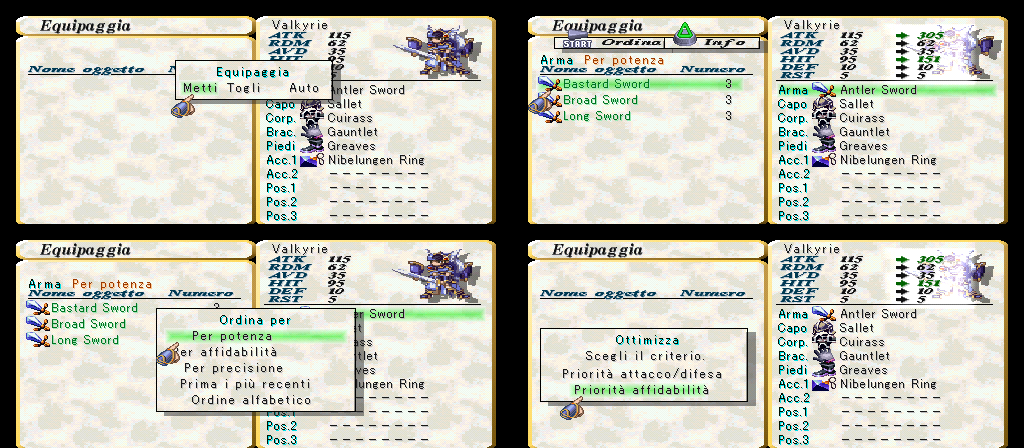
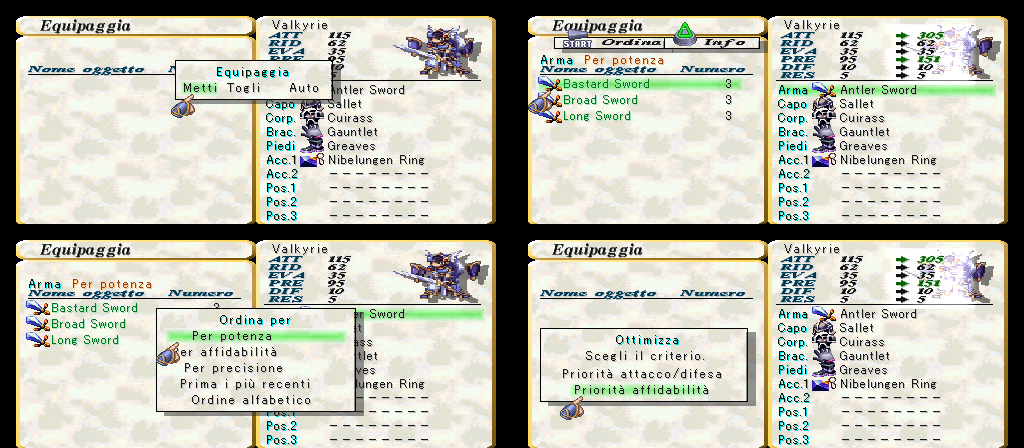
Translate the Status screen; give the small italic font accents
- edits_it/menu_2181.txt: the Status screen's 55 interface strings. The stat
  abbreviations become Italian (FOR INT AGI DES, ATT RID DIF EVA PRE RES),
  here and on Equipment/Party, since Status explains each one.
  "Valore sigillo" became "Sigillo" (it ran into its value).
- The Status labels use a small italic font (table in file 2174, sheet in
  package 2173) that had no accented letters: "(Agilita)" lost its a-grave.
  The build now draws the menus' accented letters into the sheet's free strip
  and points the table entries at them (vp_accents.small_italic_patch).
- Checked on screen (italian_status.png, italian_equipment.png); docs updated.

diff --git a/vp_accents.py b/vp_accents.py
@@ -197,3 +197,95 @@ def italic_patch(tim, table, codes):
             dy.to_bytes(2, 'little', signed=True) + bytes([adv, u, v, 0])
         u += w; line_h = max(line_h, h)
     return bytes(tim), bytes(table), skipped
+
+
+# ---------------------------------------------------------------- the small italic font
+#
+# The camp menu's screens draw some labels (the Status screen's stat names and their explanations,
+# the "Nome oggetto" column headings) with a small bold italic font in the same table format as the
+# title font: the table, 96 entries of 10 bytes, is in the camp menu program (file 2174, one SLZ
+# block loaded at 0x8002F824) at SMALL_TABLE_OFFSET; the glyphs are on a 256 x 256 4-bit sheet
+# shared with the camp menu's icons and buttons, the TIM in part 0 of package 2173, which the game
+# puts at VRAM (832, 256). Lower-case letters are 5 rows tall from line row 2, capitals 7 rows from
+# row 0; colour 1 is the body, 4, 6 and 8 its edge, b and d the shadow. The sheet's only free room is
+# a strip of SMALL_FREE (u, v, width, height), empty with a 3-pixel margin and never drawn over while
+# the camp menu runs; an accented letter is drawn there and its slot's table entry pointed at it.
+
+SMALL_SHEET = (2173, 0)                 # (package, part) of the sheet's TIM
+SMALL_PROGRAM = 2174
+SMALL_TABLE_OFFSET = 0x1E0D0
+SMALL_FREE = (51, 33, 108, 12)
+
+_SMALL_ACCENT = {                       # 2-row accents, '.' = transparent; centre column 1
+    GRAVE: ['61.', '.1b'],
+    ACUTE: ['.16', '1b.'],
+    CIRC: ['.1.', '1b1'],
+    DIAER: ['...', '1.1'],
+}
+
+
+def _small_tim(tim):
+    """(offset of the pixel rows, bytes per row) in the sheet's TIM (flags 8: with a CLUT)."""
+    clen = int.from_bytes(tim[8:12], 'little')
+    off = 8 + clen
+    w = int.from_bytes(tim[off + 8:off + 10], 'little')
+    return off + 12, w * 2
+
+
+def _small_glyph(tim, table, ch):
+    """(rows of colour indices, dx, dy, advance) of the accented letter ch for the small font, from
+    its base letter's glyph, or None."""
+    base, kind = LETTERS[ch]
+    e = italic_entry(table, ord(base))
+    if not e['w']:
+        return None
+    po, pitch = _small_tim(tim)
+    px = lambda x, y: (tim[po + y * pitch + x // 2] >> 4) if x & 1 else (tim[po + y * pitch + x // 2] & 15)
+    rows = [[px(e['u'] + x, e['v'] + y) for x in range(e['w'])] for y in range(e['h'])]
+    lower = base.islower()
+    body_top = 2 if lower else 0
+    keep = [(e['dy'] + r, row) for r, row in enumerate(rows) if e['dy'] + r >= body_top]   # drops the i's dot
+    first = next((row for _, row in keep if any(row)), None)
+    if first is None:
+        return None
+    cols = [x for x, c in enumerate(first) if c]
+    cx = (min(cols) + max(cols)) // 2 + 1           # the slant puts the top to the right
+    top = body_top - 2 if lower else body_top - 3   # capitals: a gap row between accent and letter
+    grid = {}
+    for r, row in enumerate(_SMALL_ACCENT[kind]):
+        for x, c in enumerate(row):
+            if c != '.':
+                grid[(top + r, cx - 1 + x)] = int(c, 16)
+    for lr, row in keep:
+        for x, c in enumerate(row):
+            if c:
+                grid[(lr, x)] = c
+    w = max(e['w'], max(x for _, x in grid) + 1)
+    w += -w % 4
+    bottom = max(lr for lr, _ in grid)
+    return [[grid.get((lr, x), 0) for x in range(w)] for lr in range(top, bottom + 1)], e['dx'], top, e['adv']
+
+
+def small_italic_patch(tim, table, codes):
+    """Draw the accented letters codes ({character: slot ASCII}) into the free strip of the small
+    italic font's sheet and point their slots' entries at them. Returns (tim, table, skipped)."""
+    tim = bytearray(tim); table = bytearray(table); skipped = []
+    po, pitch = _small_tim(tim)
+    fu, fv, fw, fh = SMALL_FREE
+    u = fu
+    for ch, code in sorted(codes.items(), key=lambda kv: kv[1]):
+        g = _small_glyph(tim, table, ch) if ch in LETTERS else None
+        if g is None:
+            skipped.append(ch); continue
+        rows, dx, dy, adv = g
+        h, w = len(rows), len(rows[0])
+        if u + w > fu + fw or h > fh:
+            skipped.append(ch); continue
+        for y, row in enumerate(rows):
+            for x, c in enumerate(row):
+                i = po + (fv + y) * pitch + (u + x) // 2
+                tim[i] = (tim[i] & 0x0F) | (c << 4) if (u + x) & 1 else (tim[i] & 0xF0) | c
+        table[(code - 0x20) * 10:(code - 0x20) * 10 + 10] = bytes([w, h]) + dx.to_bytes(2, 'little', signed=True) + \
+            dy.to_bytes(2, 'little', signed=True) + bytes([adv, u, fv, 0])
+        u += w
+    return bytes(tim), bytes(table), skipped

diff --git a/vp_menu_text.py b/vp_menu_text.py
@@ -409,9 +409,10 @@ class MenuText:
         return self.pkg.build()
 
 
-def _patch_italic(ed, pkg, orig_parts, word, codes):
+def _patch_italic(ed, pkg, orig_parts, word, codes, small_table=None):
     """Draw the accented letters codes ({character: slot ASCII}) into the italic title font copy
-    in package pkg (directory word word)."""
+    in package pkg (directory word word), and, given the small italic font's table (package 2173
+    holds that font's sheet too), into the small font's sheet."""
     acc = _load('vp_accents')
     si, ti = acc.ITALIC_COPIES[word]
     sub = [list(x) for x in ed.read_container(orig_parts[si])]
@@ -420,6 +421,13 @@ def _patch_italic(ed, pkg, orig_parts, word, codes):
     sub[0] = [sub[0][0], ed.vslz.compress(tim, sub[0][0]), len(tim)]
     pkg.parts[si][1] = ed.write_container(sub)
     pkg.parts[ti][1] = table
+    if small_table is not None:
+        pi = acc.SMALL_SHEET[1]
+        sub = [list(x) for x in ed.read_container(orig_parts[pi])]
+        tim = ed.unpack(*sub[0])
+        tim, _, _ = acc.small_italic_patch(tim, small_table, codes)
+        sub[0] = [sub[0][0], ed.vslz.compress(tim, sub[0][0]), len(tim)]
+        pkg.parts[pi][1] = ed.write_container(sub)
 
 
 class ItalicFont:
@@ -433,6 +441,12 @@ class ItalicFont:
         self.orig_parts = [bytes(d) for _, d in self.pkg.parts]
         self.codes = codes
         self.label = f'italic title font {word}'
+        acc = _load('vp_accents')
+        self.small_table = None         # the small italic font's table, when this package has its sheet
+        if word == acc.SMALL_SHEET[0]:
+            prog = self.ed.vtitle.TitleFile(self.ed, arc, dirw, acc.SMALL_PROGRAM).data
+            self.small_table = prog[acc.SMALL_TABLE_OFFSET:acc.SMALL_TABLE_OFFSET + 960]
+            self.label = f'italic fonts {word}'
         self.first, self.end = self.pkg.first, self.pkg.end
 
     @property
@@ -440,7 +454,7 @@ class ItalicFont:
         return self.pkg.used
 
     def repack(self, recompress_all=False):
-        _patch_italic(self.ed, self.pkg, self.orig_parts, self.word, self.codes)
+        _patch_italic(self.ed, self.pkg, self.orig_parts, self.word, self.codes, self.small_table)
         if recompress_all:
             for i, (kind, data) in enumerate(self.pkg.parts):
                 if data[:3] == b'SLZ':

diff --git a/vp_camp_tabs.py b/vp_camp_tabs.py
@@ -1,4 +1,6 @@
 """The camp menu's tabs: the Topic and Sort boxes above the item lists, which can be made wider.
+The same program holds the small italic font's table, which `build_file` also gives the menus'
+accented letters (vp_accents.small_italic_patch).
 
 The camp menu program (file 2174, one SLZ block loaded at 0x8002F824) draws parts of its screens
 from lists of 20-byte layout records, each list ending in a record whose first byte is 0xFF:
@@ -103,14 +105,26 @@ def apply(data, widths, origin=''):
     return bytes(data), changed
 
 
-def build_file(ed, arc, dirw, widths, log=print):
-    """(file, packed bytes, room), or None when nothing changes. `ed` is vp_text_editor's namespace."""
+def build_file(ed, arc, dirw, widths, log=print, accents=None):
+    """(file, packed bytes, room), or None when nothing changes. `ed` is vp_text_editor's namespace.
+    accents: {accented character: slot ASCII}, the letters the menus use, given table entries in the
+    small italic font (its glyphs are drawn into its sheet with the italic title font's)."""
     f = ed.vtitle.TitleFile(ed, arc, dirw, WORD); f.label = f'camp menu file {WORD}'
     data, changed = apply(f.data, widths)
-    if not changed:
-        return None
     for mid, old, w in changed:
         log(f'  tab {mid:#x}: box {old} -> {w} px wide')
+    if accents:
+        acc = ed.vmenu._load('vp_accents')
+        pkg, part = acc.SMALL_SHEET
+        sheet = ed.Package(arc, dirw, pkg).parts[part][1]
+        tim = ed.unpack(*ed.read_container(sheet)[0])
+        o = acc.SMALL_TABLE_OFFSET
+        _, table, skipped = acc.small_italic_patch(tim, data[o:o + 960], accents)
+        data = data[:o] + table + data[o + 960:]
+        log(f'  small italic font: {"".join(c for c in sorted(accents) if c not in skipped)} drawn into package {pkg}'
+            + (f'; no room or no base letter for {"".join(skipped)}' if skipped else ''))
+    if data == f.data:
+        return None
     packed, room = f.pack(data)
     if len(packed) > room:
         raise ValueError(f'{f.label}: needs {len(packed)} bytes, its sectors hold {room}')

diff --git a/vp_text_editor.py b/vp_text_editor.py
@@ -862,7 +862,7 @@ def build_tables(arc, dirw, table_edits, link, patches, log=print):
                              f'({len(pkg) - room} too many)')
         log(f'  {u.label}: package {u.used} -> {len(pkg)} bytes of {room}')
         _patch_sectors(arc, u.first, u.end, pkg, room, patches)
-    return len(changed)
+    return len(changed), (dict(t6.italic) if t6 is not None and t6.registry else {})
 
 
 def build_image(disc, arc, dirw, names, edits, output, fit=False, log=print, table_edits=(), link=True,
@@ -905,7 +905,7 @@ def build_image(disc, arc, dirw, names, edits, output, fit=False, log=print, tab
         log(f'system messages: records {", ".join(map(str, sorted(system)))} written into every scene '
             f'({sys_stats["scenes"]} with no other edits'
             + (f'; the least room left is {tightest[0]} bytes, scene {tightest[1]:#x}' if tightest else '') + ')')
-    menus = build_tables(arc, dirw, table_edits, link, patches, log)
+    menus, accents = build_tables(arc, dirw, table_edits, link, patches, log)
     if worldmap:
         done = vwm.build(types.SimpleNamespace(**globals()), arc, dirw, names, worldmap, db_get, log)
         if done:
@@ -915,9 +915,9 @@ def build_image(disc, arc, dirw, names, edits, output, fit=False, log=print, tab
         log('title menu (files 7 and 1):')
         for f, packed, room in vtitle.build_files(types.SimpleNamespace(**globals()), arc, dirw, title, log):
             _patch_sectors(arc, f.first, f.end, packed, room, patches)
-    if camp_tabs:
-        log(f'camp menu tabs (file {vtabs.WORD}):')
-        done = vtabs.build_file(types.SimpleNamespace(**globals()), arc, dirw, camp_tabs, log)
+    if camp_tabs or accents:
+        log(f'camp menu program (file {vtabs.WORD}):')
+        done = vtabs.build_file(types.SimpleNamespace(**globals()), arc, dirw, camp_tabs or {}, log, accents)
         if done:
             f, packed, room = done
             _patch_sectors(arc, f.first, f.end, packed, room, patches)

diff --git a/docs/PROGRESS.md b/docs/PROGRESS.md
@@ -1,17 +1,17 @@
 # Translation progress
 
-Generated by `vp_progress.py` on 2026-11-16 from 46 edit files. Don't edit this file by hand: run the script again after changing the edit files.
+Generated by `vp_progress.py` on 2026-11-16 from 47 edit files. Don't edit this file by hand: run the script again after changing the edit files.
 
 A text counts once per area however many copies it has, and is weighted by its letters. It is done when an edit file covers every copy of it. An entry left in English on purpose counts too, so a line that needs no translation (a name, 「Lucian?」) can be marked done by listing it unchanged.
 Only text the editor can read is counted: words drawn in pictures (other than the title menu) or text not found yet are not.
 
-**Overall: 10.9%** of the letters (829 of 6536 distinct texts done, 67 partly).
+**Overall: 11.1%** of the letters (876 of 6536 distinct texts done, 61 partly).
 
 | Area | Texts | Done | Partly | Progress | |
 |---|---:|---:|---:|---:|---|
 | Dialogue (scenes) | 2704 | 413 | 13 | 12.3% | `██░░░░░░░░░░░░░░░░░░` |
 | System messages (in every scene) | 12 | 12 | 0 | 100.0% | `████████████████████` |
-| Menus | 2254 | 278 | 38 | 8.8% | `██░░░░░░░░░░░░░░░░░░` |
+| Menus | 2254 | 325 | 32 | 9.3% | `██░░░░░░░░░░░░░░░░░░` |
 | Battle text | 1423 | 99 | 16 | 8.5% | `██░░░░░░░░░░░░░░░░░░` |
 | World map text | 136 | 20 | 0 | 11.3% | `██░░░░░░░░░░░░░░░░░░` |
 | Title-screen labels | 7 | 7 | 0 | 100.0% | `████████████████████` |
@@ -21,14 +21,14 @@ Only text the editor can read is counted: words drawn in pictures (other than th
 | Table | Contents | Texts | Done | Progress |
 |---|---|---:|---:|---:|
 | menu 6 | title screen and New Game menu | 271 | 141 | 46.1% |
-| menu 2175 | camp menu: top level | 52 | 50 | 99.1% |
+| menu 2175 | camp menu: top level | 52 | 52 | 100.0% |
 | menu 2176 | camp menu: Skill | 1183 | 72 | 5.9% |
-| menu 2177 | camp menu: Transfer | 731 | 73 | 5.2% |
+| menu 2177 | camp menu: Transfer | 731 | 88 | 5.8% |
 | menu 2178 | camp menu: Ability | 227 | 30 | 3.8% |
-| menu 2179 | camp menu: Use Item | 1575 | 115 | 6.0% |
+| menu 2179 | camp menu: Use Item | 1575 | 130 | 6.1% |
 | menu 2180 | camp menu: Divine Item | 1260 | 69 | 6.4% |
-| menu 2181 | camp menu: Status | 789 | 65 | 3.4% |
-| menu 2182 | camp menu: Party | 753 | 73 | 5.0% |
+| menu 2181 | camp menu: Status | 789 | 113 | 5.8% |
+| menu 2182 | camp menu: Party | 753 | 88 | 5.5% |
 | menu 2183 | camp menu: Equipment | 1040 | 138 | 8.8% |
 | menu 2184 | camp menu: Configure | 36 | 35 | 97.0% |
 | menu 2185 | camp menu: Data (save / load) | 85 | 81 | 93.6% |

diff --git a/docs/GLOSSARY.md b/docs/GLOSSARY.md
@@ -82,7 +82,9 @@ Seen in TinyPSX: `docs/notes/edit_proof/italian_title_screens.png`.
 | Equip / Equipment | Equipaggia / Equip. | "Equipaggiamento" was cut off in its column. |
 | Topic (camp menus, Triangle) | Info | Shows the selected item's help line. On the world map the same word is "Notizie" (news). |
 | Sort, Sort Menu | Ordina, Ordina per | The Sort tab is widened to 111 px for it (`camp_tabs.txt`). The choices: Per tipo, Ordine alfabetico, Prima i più recenti, Per capitolo. |
-| ATK, RDM, DEF, AVD, HIT, RST, MAG | kept | Stat abbreviations stay in English, like DME: the Status screen explains each one in English beside it, so they change together when Status is translated. |
+| STR, INT, AGL, DEX | FOR, INT, AGI, DES | Forza, Intelligenza, Agilità, Destrezza: the Status screen explains each abbreviation beside it. |
+| ATK, RDM, DEF, AVD, HIT, RST | ATT, RID, DIF, EVA, PRE, RES | Attacco, Riduzione danni, Difesa, Evasione, Precisione, Resistenza. RDM is "Reduce Damage". LV, DME, CT and MAG are kept. |
+| Hero Value, Seal Value, Regrets | Valore eroico, Sigillo, Rimpianti | Status screen. Also Classe, Razza, Età, Sesso, Luogo di nascita, Vita precedente, Resistenze. |
 | Wpn., Head, Body, Arm, Leg, Dec.1/2, Pos.1-3 | Arma, Capo, Corp., Brac., Piedi, Acc.1/2, Pos.1-3 | Equipment slots, also on the Status and Party screens. A slot name must stay within about 28 px or its item icon covers it. |
 | Chng / Remove / Best (Equipment) | Metti / Togli / Auto | "Cambia" ran into "Togli". Best is "Ottimizza" in its own screen's title. |
 | Attack Trust, Hit Trust, Defend Trust | Affid. attacco, Affid. colpo, Affid. difesa | Sort orders: Per potenza, Per affidabilità, Per precisione, Per difesa, Prima i più recenti. |
@@ -115,6 +117,7 @@ shortened until they fit on screen:
 | Use Item | Equipaggiamento | Equip. |
 | Equipment slots (2183) | Testa, Corpo, Gambe | Capo, Corp., Piedi (the item icons covered the end) |
 | Equipment popup (2183) | Equipaggiamento; Cambia | Equipaggia; Metti |
+| Status (2181) | Valore sigillo | Sigillo (it ran into its value) |
 | Options | Velocità testo | Vel. testo |
 | Options | the Dash help line | shortened to fit its box |
 

diff --git a/docs/FONTS_AND_GLYPHS.md b/docs/FONTS_AND_GLYPHS.md
@@ -103,6 +103,20 @@ font that works like a sprite sheet:
 The game draws a title as one sprite per character. The disc has two identical copies of this font,
 in the title package (file 6) and in package 2173, which the camp menu loads.
 
+## The small italic font
+
+Some camp menu screens draw their labels with a small bold italic: the Status screen's stat names
+(FOR, ATT …) and their grey explanations, and the "Nome oggetto" column headings. It uses the same
+table format as the title font, with its own glyphs:
+
+* **The table:** 96 entries of 10 bytes, in the camp menu program (file 2174, loaded at
+  `0x8002F824`) at offset `0x1E0D0`.
+* **The sheet:** a 256 × 256 4-bit TIM, part 0 of package 2173, put in video memory at (832, 256).
+  The font shares it with the camp menu's icons, buttons and pictures. Lower-case letters are 5 rows
+  tall from line row 2, capitals 7 rows from row 0.
+
+![The Status screen in Italian](notes/edit_proof/italian_status.png)
+
 ## The title-screen menu: pictures
 
 The title menu's labels (New Game, Continue and the rest) aren't text at all. Each is drawn on a
@@ -147,6 +161,7 @@ How each kind of font takes a new letter:
 | battle | a new glyph over a blank padding glyph, up to 127 glyphs |
 | menu | can't grow, because the bytes are fixed ASCII. An accented letter replaces one of ten characters the menus never show, `{ } \ ^ _ ` \| @ < >`, the same one in every menu. So the menus can hold at most ten different accented letters. |
 | italic titles | drawn into the sheet's free rows, from the base letter's italic glyph plus an accent, and the table entry of one of those ten characters points at it |
+| small italic | the same, with 2-row accents, in the sheet's only free room: a strip at (51, 33), 108 × 12, which nothing draws over while the camp menu runs. It holds about nine letters. Without this, "(Agilità)" showed as "(Agilit )". |
 | title screen | the labels are rendered again as pictures |
 
 For scene and world-map fonts, the editor takes each new glyph from `vp_glyph_db.json`: the most

diff --git a/docs/MENU_AND_BATTLE_TEXT.md b/docs/MENU_AND_BATTLE_TEXT.md
@@ -173,9 +173,18 @@ opens the Sort menu, strings `0x33` to `0x37`. Top to bottom: Use Item, Equipmen
 
 The Equipment screen (table 2183): the action popup, the weapon list with both tabs, the Sort menu
 and the Ottimizza (best equipment) screen, with three weapons granted by the script. Its 67 interface
-strings are Italian. The stat abbreviations stay in English, and so do the weapon and armour names
-and their help lines, which are item text. The slot names (Arma, Capo, Corp. …) are shared with the
+strings are Italian. The weapon and armour names
+and their help lines are item text, still in English. The slot names (Arma, Capo, Corp. …) are shared with the
 Status screen through the link, and fit there too.
+
+![The Status screen in Italian](notes/edit_proof/italian_status.png)
+
+The Status screen (table 2181): 55 interface strings, with the stat abbreviations, which also
+change on the Equipment and Party screens. Its labels and explanations use the small italic font
+(`docs/FONTS_AND_GLYPHS.md`), which had no accented letters until the build drew them in. The
+profile fields (Classe, Razza, Età, Rimpianti …) only show for recruited heroes, and were checked
+by reading the disc back. The characters' biographies (Triangle) and the skill names are still in
+English.
 
 ## The camp menu's tabs
 
